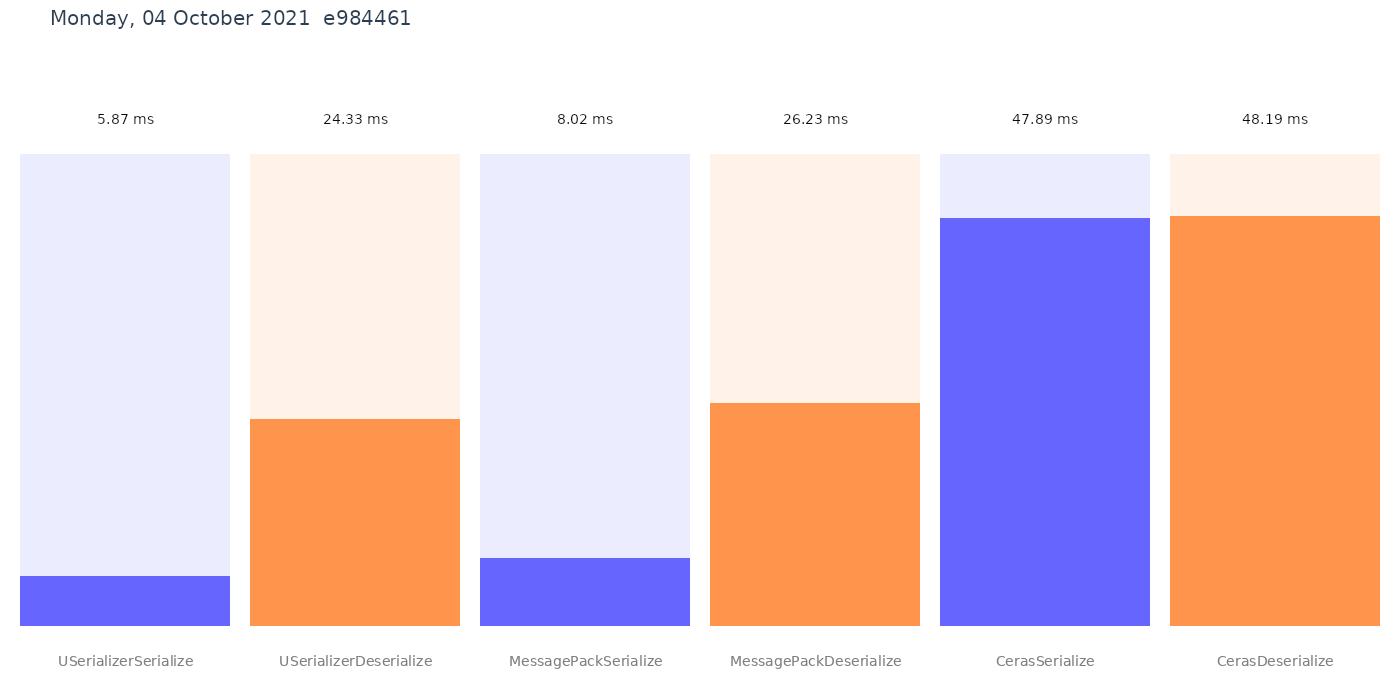
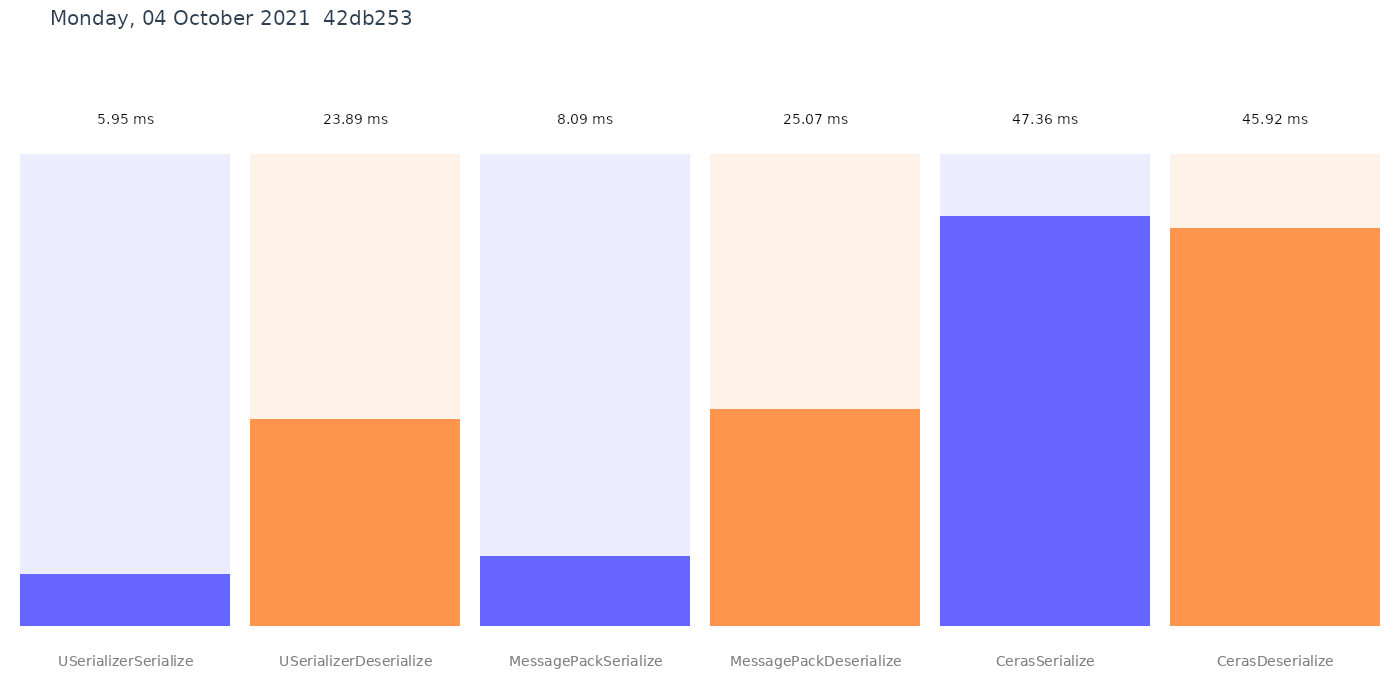
deploy: 42db253f8a6f7613d5e62bf32a9c3d07a4fce029

diff --git a/performance.md b/performance.md
@@ -12,9 +12,9 @@ WarmupCount=3
 ```
 |                 Method |      Mean |     Error |    StdDev |
 |----------------------- |----------:|----------:|----------:|
-|   USerializerSerialize |  5.869 ms | 0.0159 ms | 0.0009 ms |
-| USerializerDeserialize | 24.327 ms | 0.0527 ms | 0.0029 ms |
-|   MessagePackSerialize |  8.015 ms | 0.5874 ms | 0.0322 ms |
-| MessagePackDeserialize | 26.230 ms | 1.6658 ms | 0.0913 ms |
-|         CerasSerialize | 47.895 ms | 1.0870 ms | 0.0596 ms |
-|       CerasDeserialize | 48.192 ms | 3.7823 ms | 0.2073 ms |
+|   USerializerSerialize |  5.946 ms | 0.0340 ms | 0.0019 ms |
+| USerializerDeserialize | 23.892 ms | 3.5570 ms | 0.1950 ms |
+|   MessagePackSerialize |  8.087 ms | 0.0134 ms | 0.0007 ms |
+| MessagePackDeserialize | 25.071 ms | 3.3604 ms | 0.1842 ms |
+|         CerasSerialize | 47.364 ms | 4.2980 ms | 0.2356 ms |
+|       CerasDeserialize | 45.924 ms | 6.2344 ms | 0.3417 ms |
